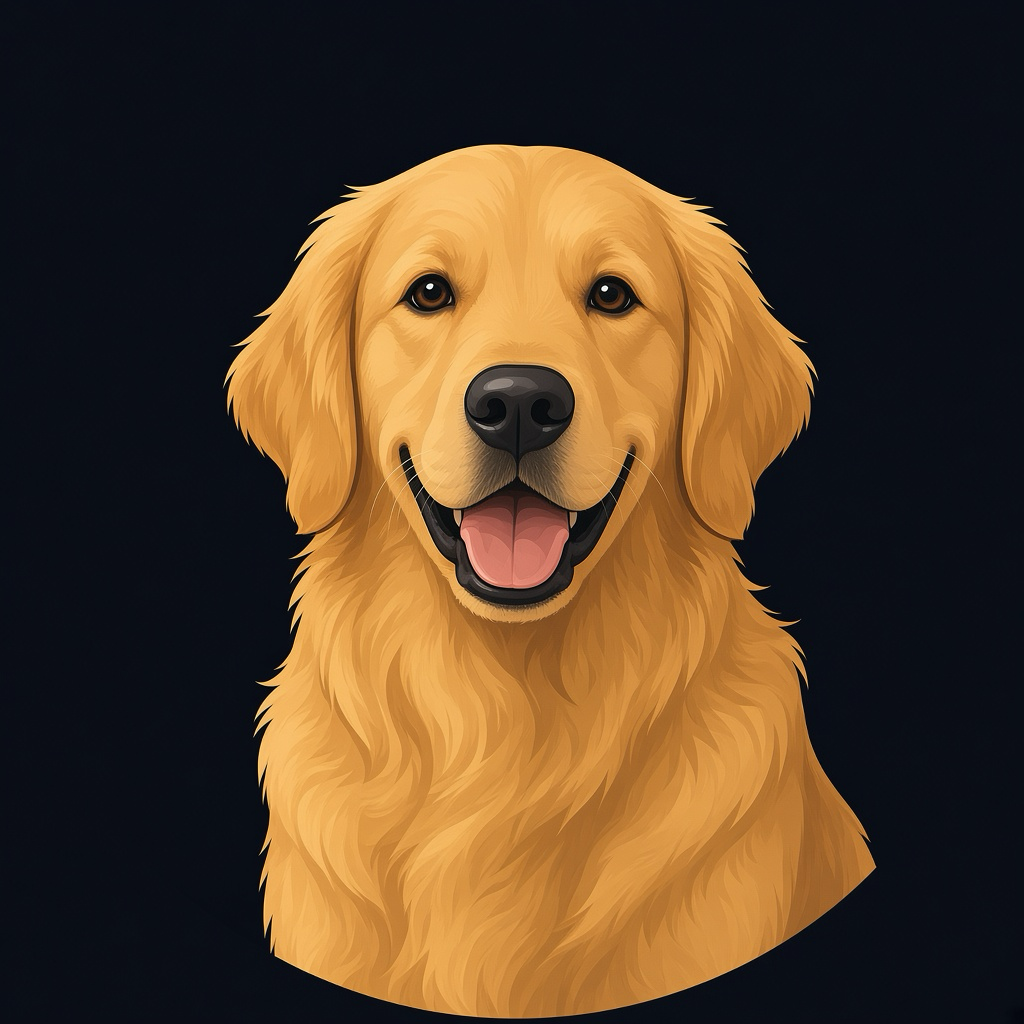
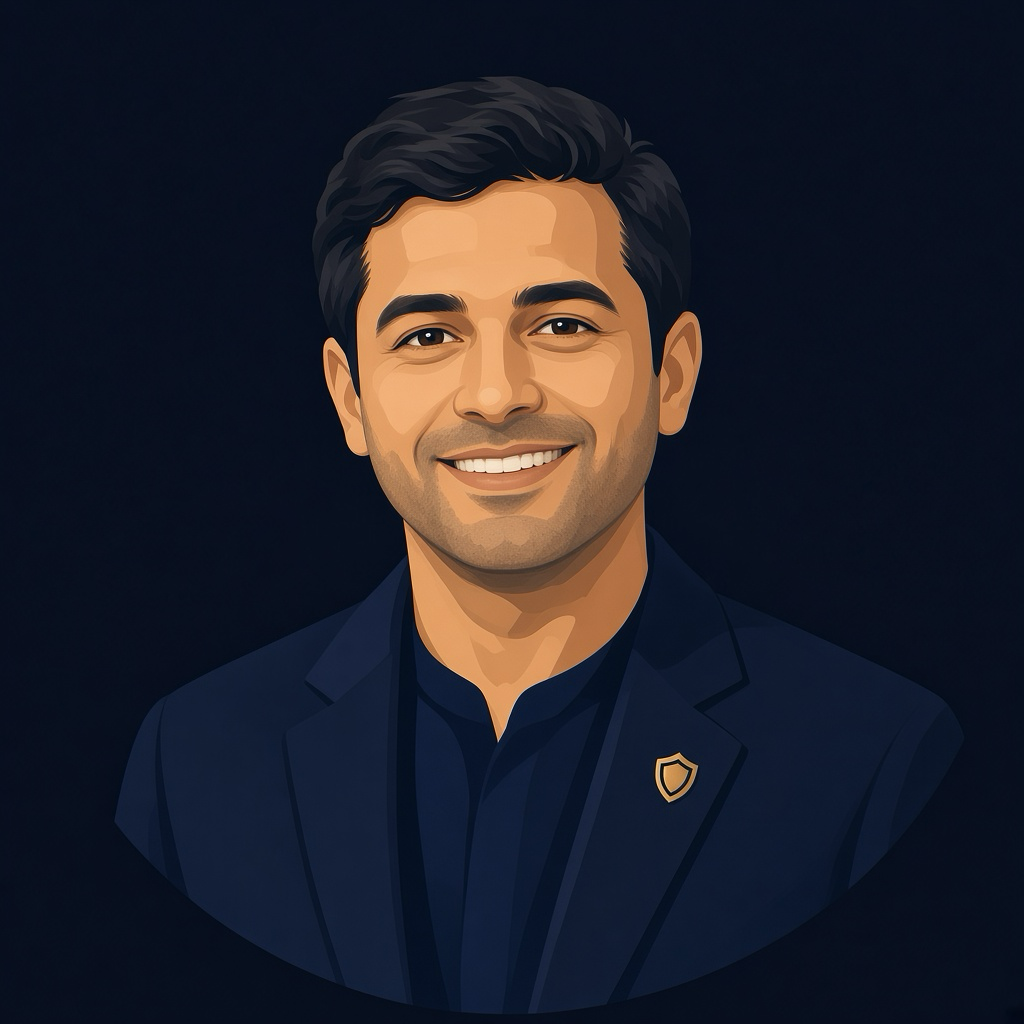
LPT-32: A right lesson answer does not show Rex celebrating (#1202)
* chore: initialize feature/LPT-32-rex-own-face

* feat: show Rex’s own celebrating face on a right answer (LPT-32)

The celebrate portrait was a different character. A right lesson answer now uses Rex, the same coach as the calm prompt.

---------

diff --git a/test/ui/widgets/rex_celebrate_asset_test.dart b/test/ui/widgets/rex_celebrate_asset_test.dart
@@ -1,0 +1,96 @@
+/// Locks the celebrate portrait to Rex, the same coach as the calm face.
+library;
+
+import 'dart:ui' as ui;
+
+import 'package:flutter/services.dart';
+import 'package:flutter_test/flutter_test.dart';
+import 'package:live_poker_trainer/ui/widgets/rex_mascot.dart';
+
+void main() {
+  TestWidgetsFlutterBinding.ensureInitialized();
+
+  test('celebrate portrait is Rex’s own face in a celebrating mood', () async {
+    final calm = await _portrait(RexMascot.asset);
+    final celebrate = await _portrait(RexMascot.celebrateAsset);
+
+    expect(_isNavy(calm.jacket), isTrue, reason: 'calm jacket');
+    expect(_isNavy(celebrate.jacket), isTrue, reason: 'celebrate jacket');
+    expect(_isSkin(calm.cheek), isTrue, reason: 'calm cheek');
+    expect(_isSkin(celebrate.cheek), isTrue, reason: 'celebrate cheek');
+    expect((celebrate.cheek.r - calm.cheek.r).abs(), lessThan(40));
+    expect((celebrate.cheek.g - calm.cheek.g).abs(), lessThan(40));
+    expect((celebrate.cheek.b - calm.cheek.b).abs(), lessThan(40));
+    expect(celebrate.bytes, isNot(calm.bytes));
+  });
+}
+
+class _Rgb {
+  const _Rgb(this.r, this.g, this.b);
+
+  final int r;
+  final int g;
+  final int b;
+}
+
+class _Portrait {
+  const _Portrait({
+    required this.cheek,
+    required this.jacket,
+    required this.bytes,
+  });
+
+  final _Rgb cheek;
+  final _Rgb jacket;
+  final List<int> bytes;
+}
+
+/// Cheek and jacket means, plus the file bytes so the moods stay distinct.
+Future<_Portrait> _portrait(String asset) async {
+  final data = await rootBundle.load(asset);
+  final bytes = data.buffer.asUint8List();
+  final codec = await ui.instantiateImageCodec(bytes);
+  final frame = await codec.getNextFrame();
+  final image = frame.image;
+  final raw = (await image.toByteData(format: ui.ImageByteFormat.rawRgba))!;
+  final pixels = raw.buffer.asUint8List();
+  return _Portrait(
+    cheek: _mean(pixels, image.width, image.height, 0.38, 0.38, 0.16, 0.10),
+    jacket: _mean(pixels, image.width, image.height, 0.40, 0.70, 0.20, 0.12),
+    bytes: bytes,
+  );
+}
+
+_Rgb _mean(
+  List<int> pixels,
+  int width,
+  int height,
+  double fx,
+  double fy,
+  double fw,
+  double fh,
+) {
+  final x0 = (width * fx).floor();
+  final y0 = (height * fy).floor();
+  final x1 = (width * (fx + fw)).floor();
+  final y1 = (height * (fy + fh)).floor();
+  var r = 0;
+  var g = 0;
+  var b = 0;
+  var n = 0;
+  for (var y = y0; y < y1; y += 8) {
+    for (var x = x0; x < x1; x += 8) {
+      final i = (y * width + x) * 4;
+      r += pixels[i];
+      g += pixels[i + 1];
+      b += pixels[i + 2];
+      n++;
+    }
+  }
+  return _Rgb(r ~/ n, g ~/ n, b ~/ n);
+}
+
+bool _isNavy(_Rgb color) => color.r < 60 && color.g < 80 && color.b > color.r;
+
+bool _isSkin(_Rgb color) =>
+    color.r > 160 && color.r > color.g && color.g > color.b && color.g > 90;

diff --git a/test/docs/ui_design_record_test.dart b/test/docs/ui_design_record_test.dart
@@ -31,6 +31,18 @@ void main() {
     expect(
       text,
       contains(
+        'A right answer shows Rex’s own face in a celebrating mood beside the short line. The calm portrait and the celebrating portrait are the same coach. The Asset inventory celebrate row uses that same face.',
+      ),
+    );
+    expect(
+      text,
+      contains(
+        'Rex’s own face, celebrating mood, the same coach as the calm portrait',
+      ),
+    );
+    expect(
+      text,
+      contains(
         'The locked Live Training hub names the Home lesson that unlocks it. It does not say Section 2.',
       ),
     );

diff --git a/docs/ui/design-record.md b/docs/ui/design-record.md
@@ -120,7 +120,7 @@ introduced. Reuse the path already listed. Add a row when a new file ships.
 | --- | --- | --- |
 | Logo | `assets/brand/logo_mark.png` | Auth screen and Live Training hub |
 | Mascot | `assets/brand/rex_calm.png` — a face, calm mood, via `RexMascot` | Meet Rex, `RexCoachLine`, and `RexCoachCard` |
-| Mascot celebrate | `assets/brand/rex_celebrate.png` — a face, celebrating mood, via `RexMascot` | Right-answer beat in `LessonFeedbackSheet` |
+| Mascot celebrate | `assets/brand/rex_celebrate.png` — Rex’s own face, celebrating mood, the same coach as the calm portrait, via `RexMascot` | Right-answer beat in `LessonFeedbackSheet` |
 | Icons | Material / Cupertino. No branded icon set | Theme icon color (`slate` in the app bar) |
 | Motion | Implicit widget motion only (band resize, `AnimatedSwitcher` 220ms in the runner). No Rive or Lottie | [flutter-ui-ux](../../.cursor/skills/flutter-ui-ux/SKILL.md) durations |
 | Sound effects | `SoundService`: `deal.wav`, `chip.wav`, `knock.wav`, `fold.wav`, `win.wav` under `assets/sounds/` | Table actions call these. Do not add a second chip sound |
@@ -158,7 +158,7 @@ Do not copy their palette, owl, or words.
 On Home, Rex stands on the marked next-lesson node. A Rex card above the path is not that beat.
 | Section end | One ceremony: character, title, one button. |
 
-A right answer on a lesson step shows Rex’s face in a celebrating mood beside the short line. The calm portrait remains the prompt face.
+A right answer shows Rex’s own face in a celebrating mood beside the short line. The calm portrait and the celebrating portrait are the same coach. The Asset inventory celebrate row uses that same face.
 
 The locked Live Training hub names the Home lesson that unlocks it. It does not say Section 2.
 
@@ -168,6 +168,6 @@ File one ticket per missing beat.
 
 ### Shipped
 
-A right answer shows `RexMascot` (`RexMood.celebrate`, `assets/brand/rex_celebrate.png`) beside the short line in `LessonFeedbackSheet` (`lib/ui/course/widgets/lesson_feedback_sheet.dart`). The prompt stays on `assets/brand/rex_calm.png`.
+A right answer shows Rex’s own face in a celebrating mood beside the short line. `LessonFeedbackSheet` (`lib/ui/course/widgets/lesson_feedback_sheet.dart`) uses `RexMascot` with `RexMood.celebrate` (`assets/brand/rex_celebrate.png`). That portrait is the same coach as `assets/brand/rex_calm.png`.
 
 The locked Live Training hub names Baseline jump check in `liveTrainingLockedMessage` (`lib/models/live_access.dart`). That title is the Home node for `lesson-02-07-02-section-two-jump`.
